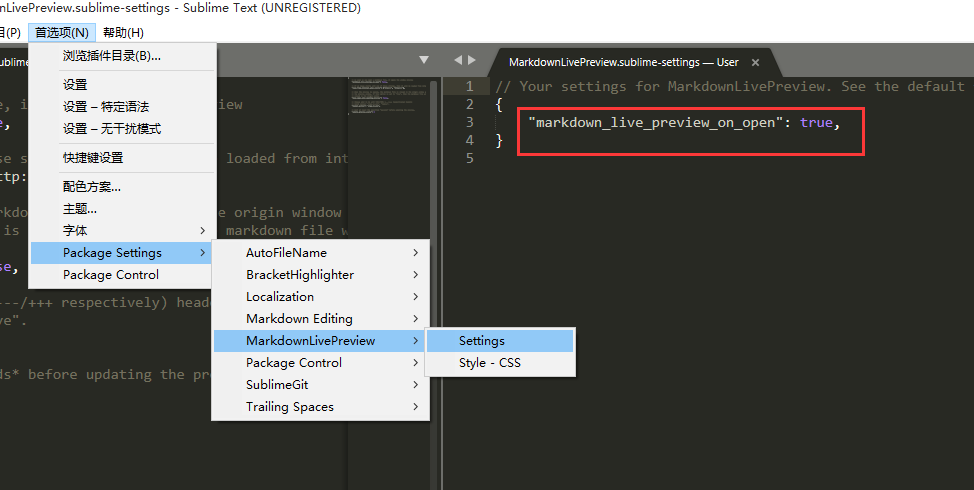
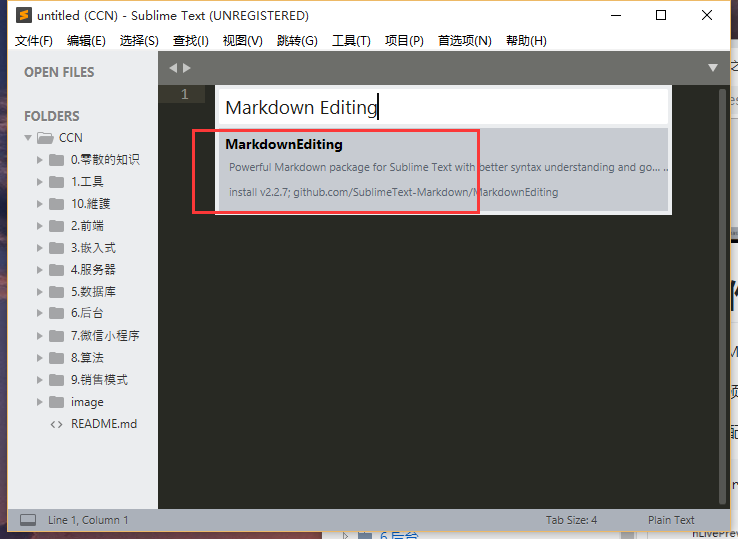
update

diff --git a/1.工具/8.sublimetext3/10-sublimetext3之markdown.md b/1.工具/8.sublimetext3/10-sublimetext3之markdown.md
@@ -1,4 +1,4 @@
-[![](https://img.shields.io/badge/参考文献-简书-yellow.svg "参考文献 3dmax-2017")](https://www.jianshu.com/p/7cbd50058ea3)
+[![](https://img.shields.io/badge/参考文献-简书-yellow.svg "参考文献 3dmax-2017")](https://blog.csdn.net/galoa/article/details/79029758)
 
 # 效果
 
@@ -6,14 +6,44 @@
 
 # 操作
 
-安装Markdown插件：Markdown Editing
-
-安装预览Markdown插件：MarkdownLivePreview
-
-- 配置预览Markdown插件
-
-```
-"markdown_live_preview_on_open": true,
-```
+### 1、安裝插件
 
 ![](image/10-2.png)
+
+### 2、配置
+
+- 1、复制文件
+
+`这里的配置内容复制一份`
+
+![](image/10-3.png)
+
+`粘贴到这里`
+
+![](image/10-4.png)
+
+- 2、选主题
+
+![](image/10-5.png)
+
+![](image/10-6.png)
+
+- 3、修改配置
+
+![](image/10-7.png)
+
+```
+    // Layout
+    "draw_centered": false,  //决定两侧是否留白，默认为true，修改为false去除左侧空白
+    "word_wrap": true, 
+    "wrap_width": 120, //决定每行最大字数，这里设定为120
+    "rulers": [],
+
+    
+    // Line
+    "line_numbers": true, //显示行号，默认为false
+    "highlight_line": false,
+    "line_padding_top": 2,
+    "line_padding_bottom": 2,
+```
+![](image/10-8.png)

diff --git a/1.工具/8.sublimetext3/3-sublimetext3之快捷键打开html.md b/1.工具/8.sublimetext3/3-sublimetext3之快捷键打开html.md
@@ -18,7 +18,7 @@
 	{
 		"keys": ["ctrl+alt+f"],
 		"command": "open_in_browser"
-	},	
+	},
 ```
 
 ![](image/3-2.png)
